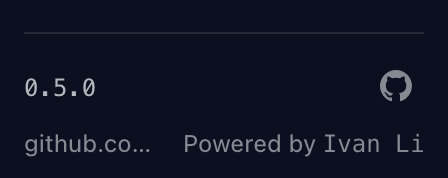
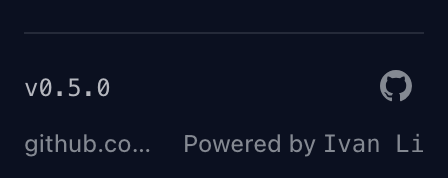
fix(web): prefix semver with v

Changed region(s): [[0.0312, 0.4213, 0.25, 0.5618]]

diff --git a/web/src/Shell.tsx b/web/src/Shell.tsx
@@ -19,6 +19,15 @@ function formatVersionLabel(version: string | null): string {
   return v
 }
 
+function formatVersionDisplay(version: string | null): string {
+  const v = formatVersionLabel(version)
+  if (v === '-') return v
+  // Make it obvious this is a version without altering the underlying ref used for links.
+  if (/^v/i.test(v)) return v
+  if (/^\d+\.\d+\.\d+([+-].+)?$/.test(v)) return `v${v}`
+  return v
+}
+
 function encodeGitRefForPath(ref: string): string {
   // Keep slashes so branch names like "feat/x" can still be used as a ref segment.
   return encodeURIComponent(ref).replaceAll('%2F', '/')
@@ -68,6 +77,7 @@ export function AppShell(props: {
 
   const versionLabel = formatVersionLabel(appVersion)
   const versionRef = (appVersion ?? '').trim()
+  const versionDisplay = formatVersionDisplay(appVersion)
   const versionHref =
     versionLabel !== '-' && versionRef
       ? `https://github.com/IvanLi-CN/dockrev/tree/${encodeGitRefForPath(versionRef)}`
@@ -139,13 +149,13 @@ export function AppShell(props: {
                   href={versionHref}
                   target="_blank"
                   rel="noopener noreferrer"
-                  aria-label={`Version on GitHub: ${versionLabel}`}
-                  title={`Version: ${versionLabel}`}
+                  aria-label={`Version on GitHub: ${versionDisplay}`}
+                  title={`Version: ${versionDisplay}`}
                 >
-                  <Mono>{versionLabel}</Mono>
+                  <Mono>{versionDisplay}</Mono>
                 </a>
               ) : (
-                <Mono>{versionLabel}</Mono>
+                <Mono>{versionDisplay}</Mono>
               )}
               <a
                 className="sidebarMetaIcon"
